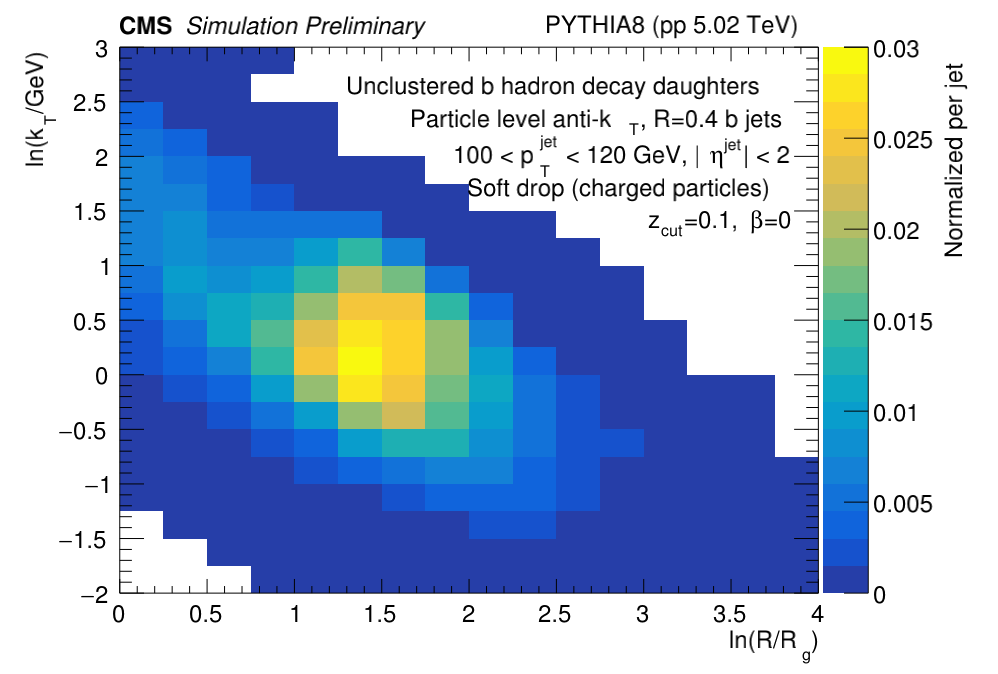
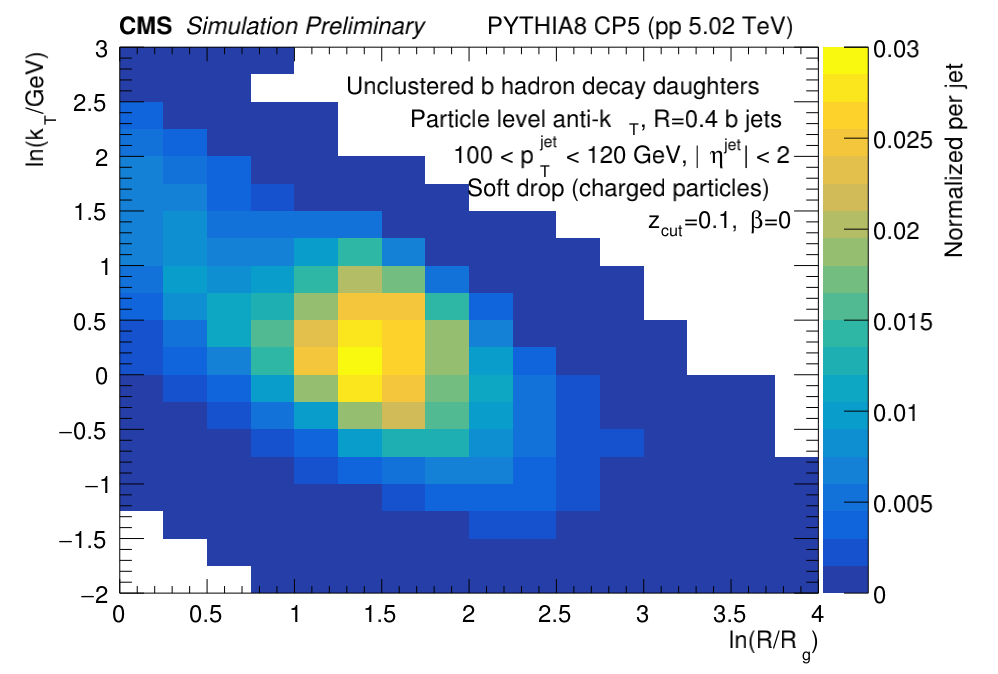
fix pythia title

Changed region(s): [[0.497, 0.0, 0.8076, 0.0623]]

diff --git a/myMacros/C106X/draw_substructure.C b/myMacros/C106X/draw_substructure.C
@@ -12,12 +12,12 @@ void draw_info()
     lumi->SetNDC();
     lumi->SetTextSize(28);
     lumi->SetTextAlign(32);
-    lumi->DrawLatex(0.82, 0.96, "PYTHIA8 (pp 5.02 TeV)");
+    lumi->DrawLatex(0.82, 0.96, "PYTHIA8 CP5 (pp 5.02 TeV)");
 }
 
 void draw_substructure(TString observable="rg")
 {
-    // Run with ROOT 6.30
+    // Run with ROOT 6.30, take PDFs
 
     Float_t text_size = 28.;
     gStyle->SetTextSize(text_size);
@@ -30,7 +30,7 @@ void draw_substructure(TString observable="rg")
     if (observable=="rg") xlabel = "ln(R/R_{g})";
     else if (observable=="zg") xlabel = "z_{g}";
 
-    TString label = "aggrGenNoReco_withPNET";
+    TString label = "noAggr_withPNET";
     TString sample = "bjet";
     TString fin_name = "./histos/" + sample + "_" + label + "_substructure.root"; 
     std::cout << "fin: " << fin_name << std::endl;
